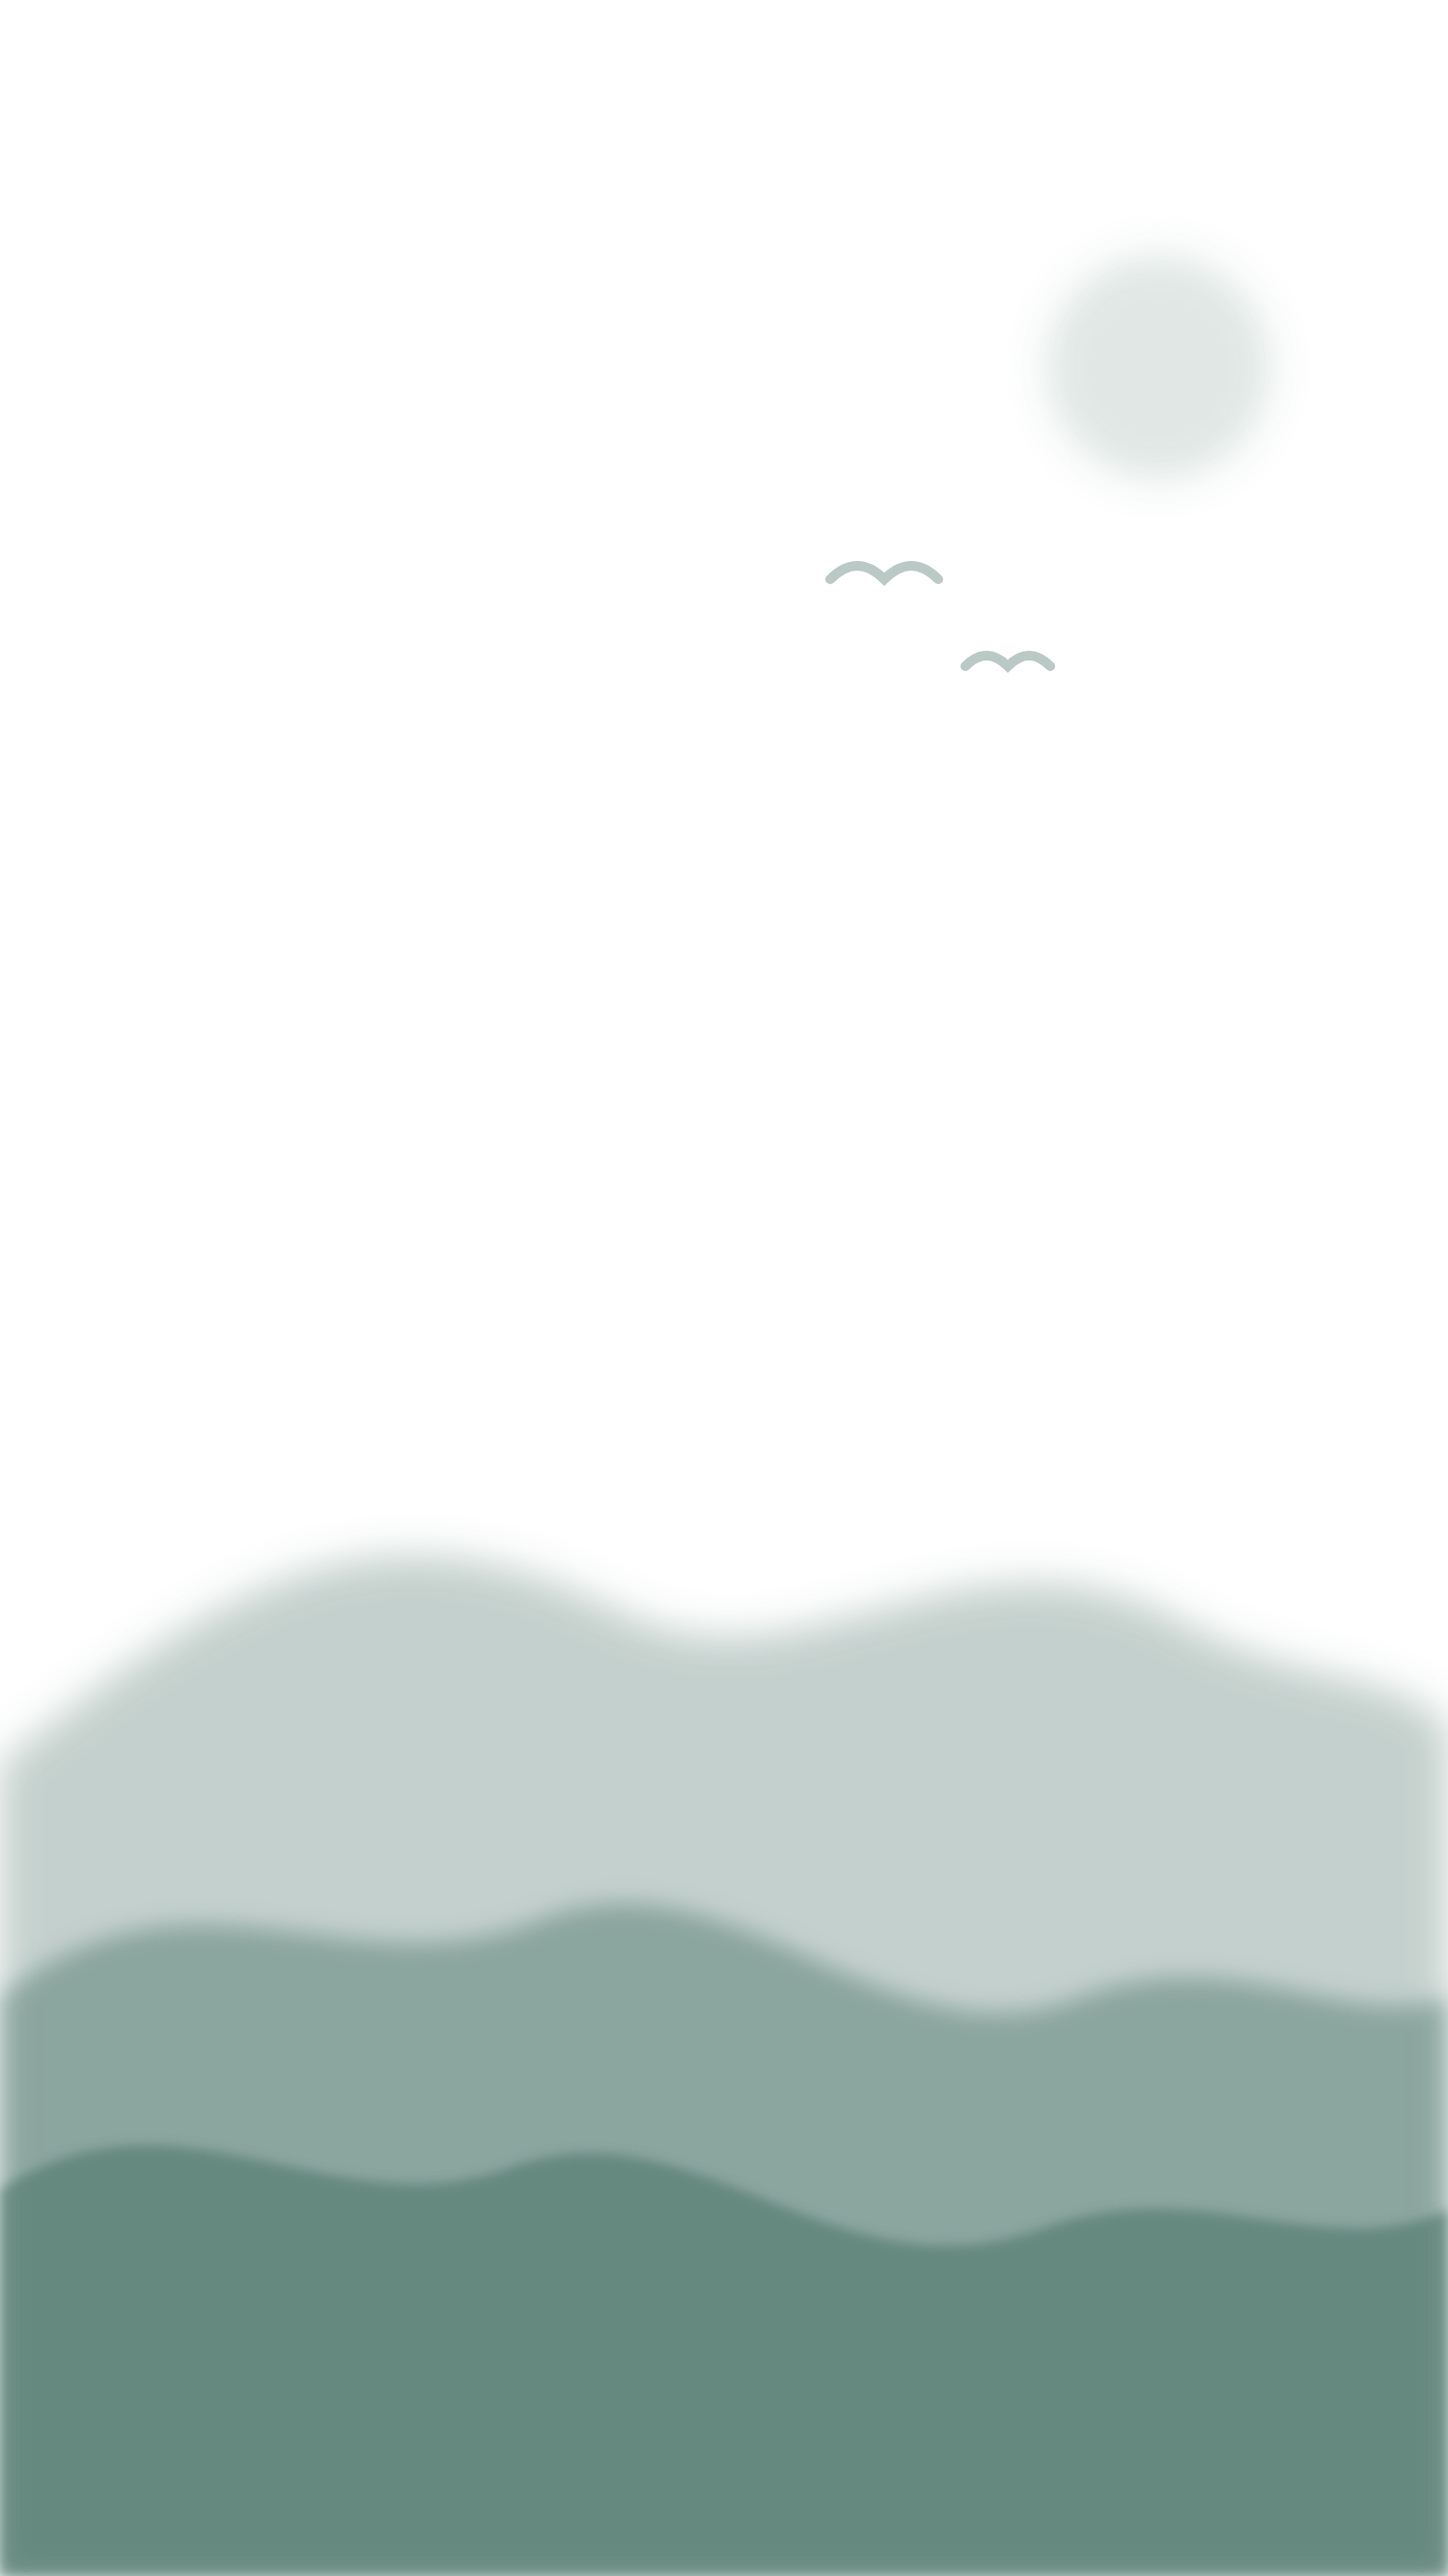
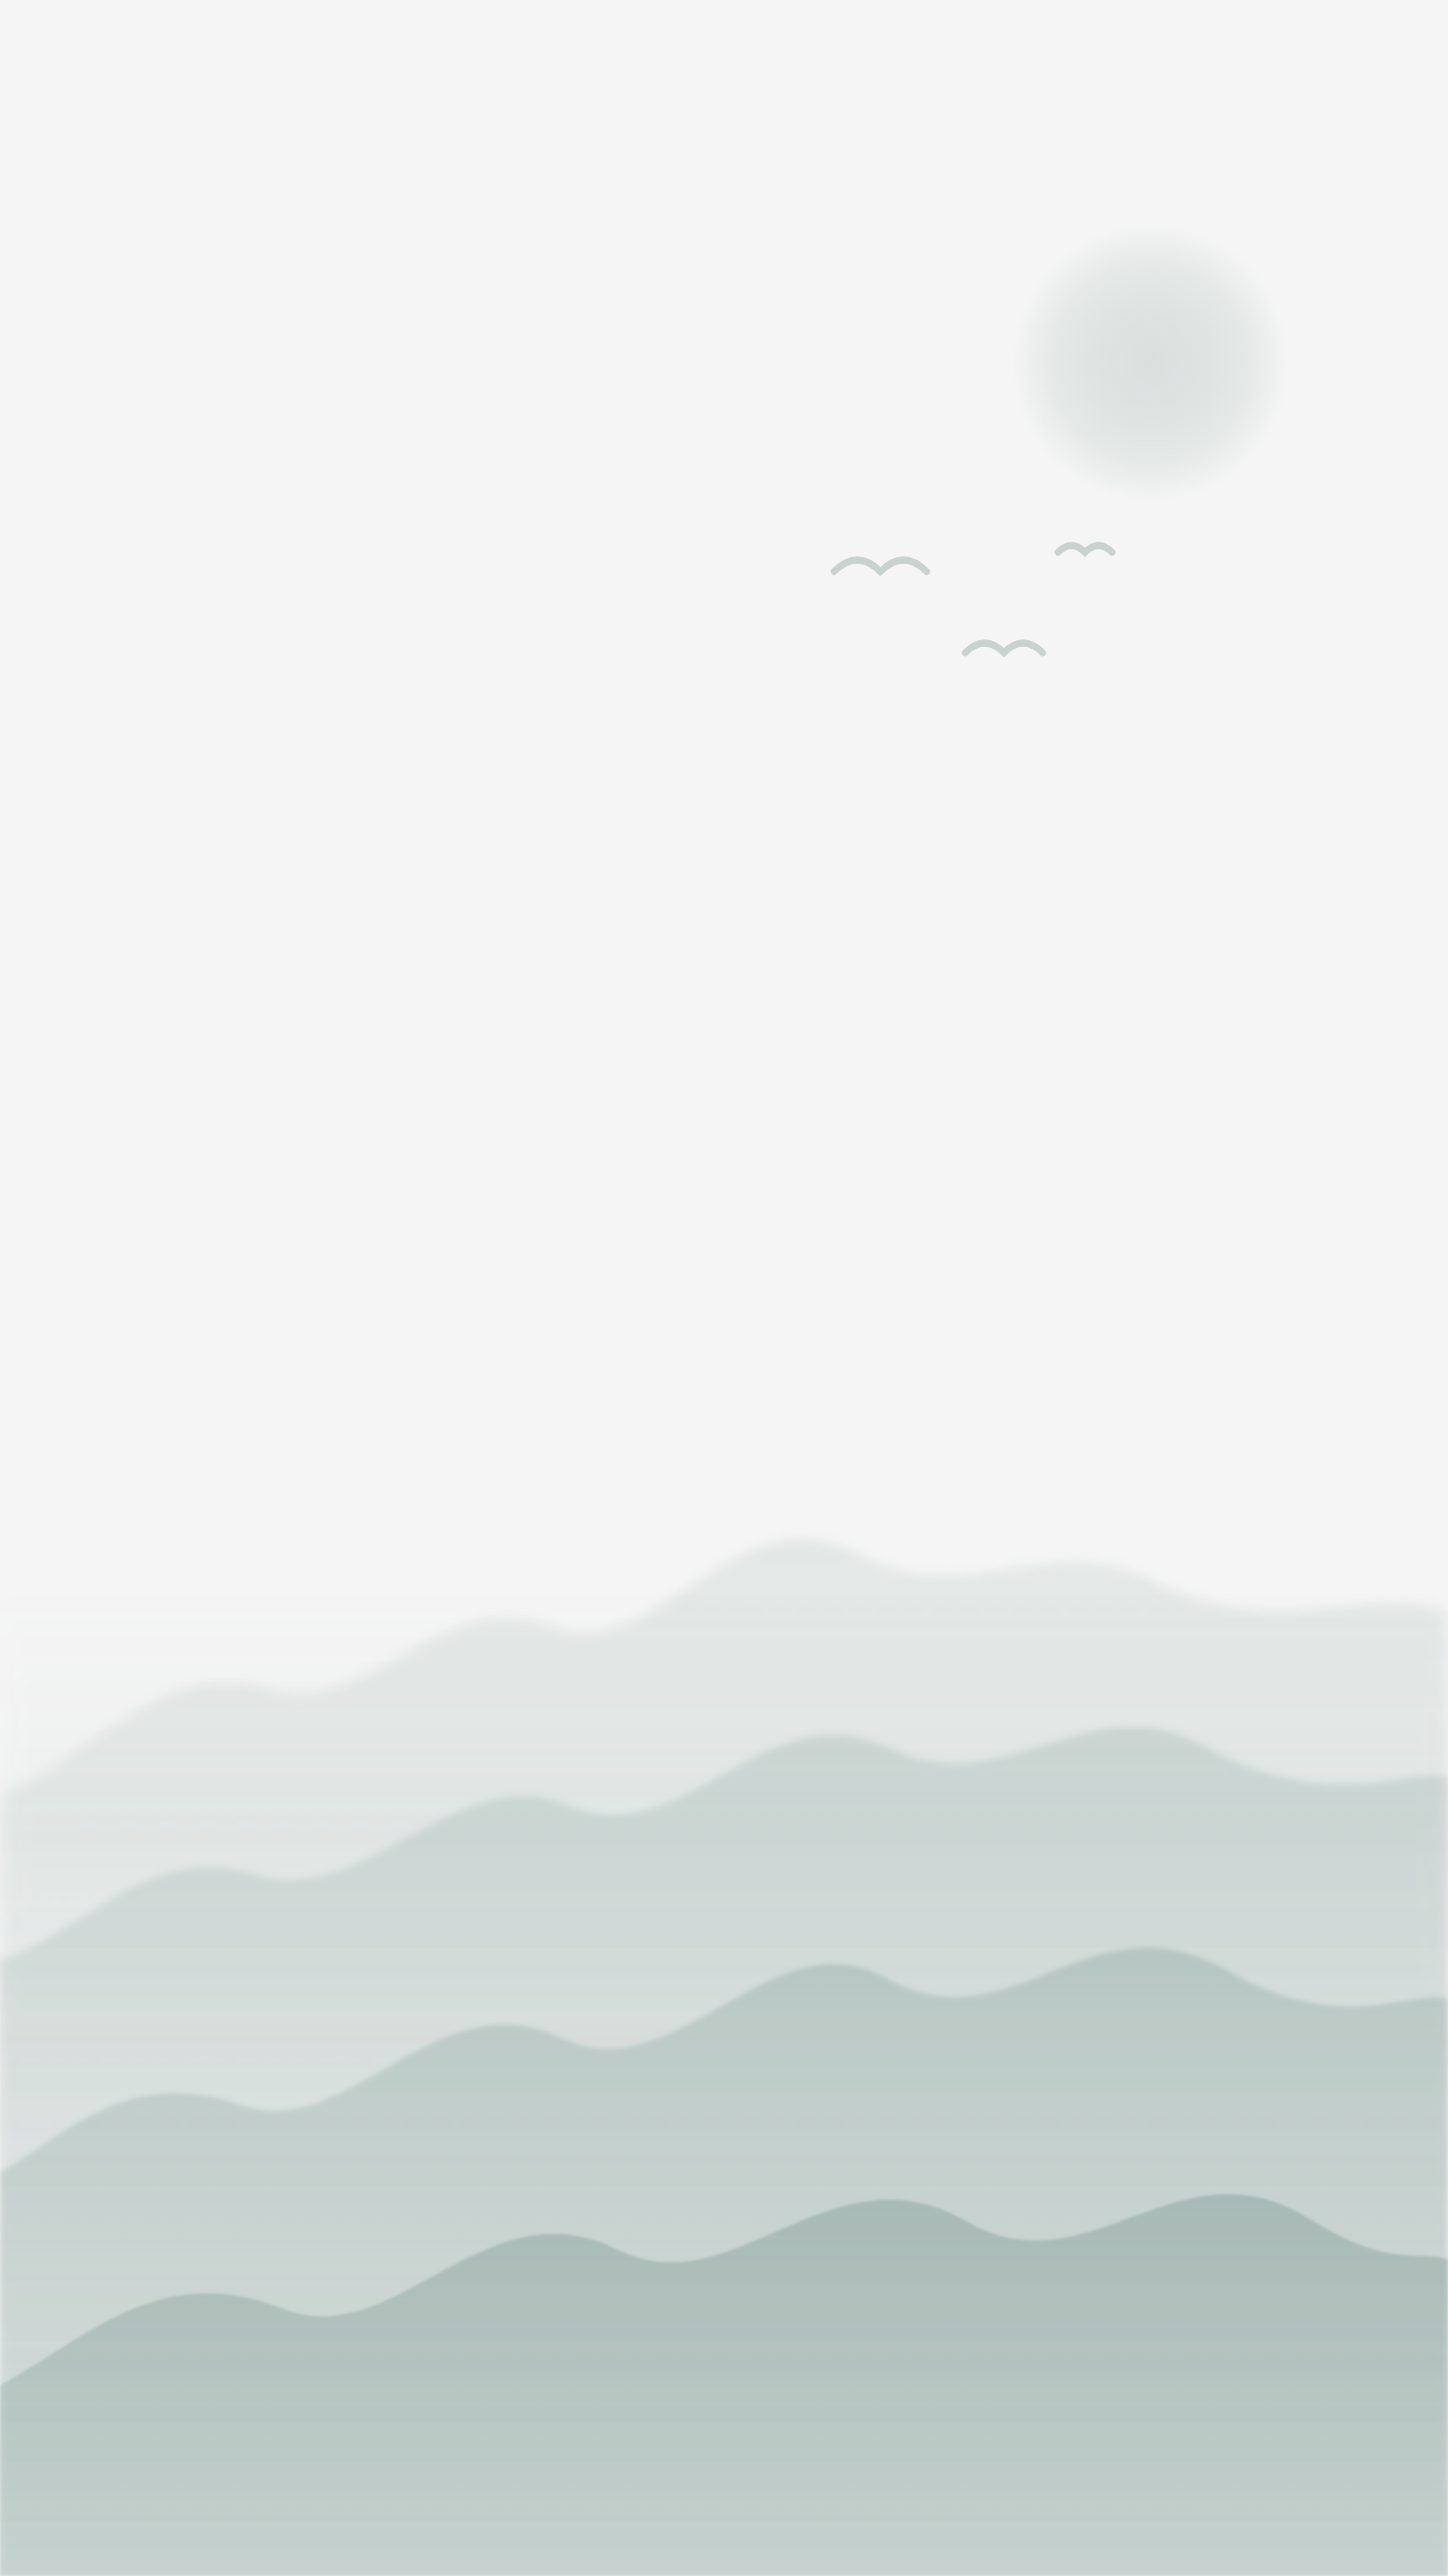
fix(mobile): 美化文本记忆水墨背景并修复导入列表与滚动条
- 水墨背景改为四层渐变山影与轻雾，2 倍分辨率、主题同底色不透明 PNG，避免高分屏彩边
- 诗词/成语卡片标题与标签允许换行，补齐 width/box-sizing/overflow-x，消除右侧空白竖条
- 导入列表和地图底部 sheet 隐藏纵向滚动条，保持固定 vh 高度链
- AGENTS 同步背景资源约定

diff --git a/mobile/src/subPackages/pages-memory/text-memory/import.vue b/mobile/src/subPackages/pages-memory/text-memory/import.vue
@@ -67,7 +67,7 @@
         </text>
       </view>
 
-      <scroll-view scroll-y class="lib-scroll">
+      <scroll-view scroll-y class="lib-scroll" :show-scrollbar="false">
         <view
           v-for="poem in filteredPoetry"
           :key="poem.id"
@@ -130,7 +130,7 @@
         </text>
       </view>
 
-      <scroll-view scroll-y class="lib-scroll">
+      <scroll-view scroll-y class="lib-scroll" :show-scrollbar="false">
         <view
           v-for="idiom in filteredIdioms"
           :key="idiom.id"
@@ -700,9 +700,13 @@ function handleImportFromMap() {
 
 .tab-content {
   flex: 1;
+  min-height: 0;
+  min-width: 0;
   padding: 24rpx;
   display: flex;
   flex-direction: column;
+  box-sizing: border-box;
+  overflow-x: hidden;
 }
 
 /* 地图 tab 需要去掉 padding 给 map 全宽全高 */
@@ -856,6 +860,16 @@ function handleImportFromMap() {
   flex: 1;
   margin-bottom: 20rpx;
   height: 0; /* flex 子项 scroll-view 需要明确高度约束 */
+  width: 100%;
+  max-width: 100%;
+  box-sizing: border-box;
+  overflow-x: hidden;
+}
+/* H5 隐藏纵向滚动条；小程序由 show-scrollbar=false 控制 */
+.lib-scroll::-webkit-scrollbar {
+  display: none;
+  width: 0;
+  height: 0;
 }
 
 .lib-item {
@@ -864,6 +878,10 @@ function handleImportFromMap() {
   padding: 20rpx;
   margin-bottom: 12rpx;
   border: 2rpx solid transparent;
+  width: 100%;
+  max-width: 100%;
+  box-sizing: border-box;
+  overflow: hidden;
 }
 .lib-item.selected {
   border-color: var(--sr-primary);
@@ -872,17 +890,24 @@ function handleImportFromMap() {
 .lib-item-header {
   display: flex;
   justify-content: space-between;
-  align-items: center;
+  align-items: baseline;
+  flex-wrap: wrap;
+  gap: 4rpx 12rpx;
   margin-bottom: 8rpx;
 }
 .lib-item-title {
   font-size: 28rpx;
   font-weight: 600;
   color: var(--sr-text-strong);
+  min-width: 0;
+  overflow-wrap: anywhere;
 }
 .lib-item-author {
   font-size: 22rpx;
   color: var(--sr-text-2);
+  margin-left: auto;
+  max-width: 100%;
+  overflow-wrap: anywhere;
 }
 .lib-item-content {
   font-size: 24rpx;
@@ -902,7 +927,9 @@ function handleImportFromMap() {
 .lib-item-tags {
   margin-top: 8rpx;
   display: flex;
+  flex-wrap: wrap;
   gap: 6rpx;
+  max-width: 100%;
 }
 .lib-mini-tag {
   font-size: 20rpx;
@@ -910,6 +937,9 @@ function handleImportFromMap() {
   color: var(--sr-text-2);
   border-radius: 4rpx;
   padding: 0 8rpx;
+  flex-shrink: 0;
+  max-width: 100%;
+  overflow-wrap: anywhere;
 }
 
 .action-btn {

diff --git a/mobile/src/subPackages/pages-memory/text-memory/components/MapBottomSheet.vue b/mobile/src/subPackages/pages-memory/text-memory/components/MapBottomSheet.vue
@@ -25,7 +25,7 @@
     </view>
 
     <!-- 列表 -->
-    <scroll-view scroll-y class="sheet-list">
+    <scroll-view scroll-y class="sheet-list" :show-scrollbar="false">
       <!-- 诗词 -->
       <view
         v-for="poem in payload.poems"
@@ -145,6 +145,8 @@ function previewContent(content: string): string {
   display: flex;
   flex-direction: column;
   height: 100%;
+  width: 100%;
+  box-sizing: border-box;
   overflow: hidden;
 }
 
@@ -252,7 +254,16 @@ function previewContent(content: string): string {
 .sheet-list {
   flex: 1;
   height: 0; /* flex 子项 scroll-view 需要明确高度约束，否则长列表撑开容器无法滚动 */
+  width: 100%;
+  max-width: 100%;
+  box-sizing: border-box;
+  overflow-x: hidden;
   padding: 12rpx 0 24rpx;
+}
+.sheet-list::-webkit-scrollbar {
+  display: none;
+  width: 0;
+  height: 0;
 }
 
 .sheet-item {
@@ -262,6 +273,9 @@ function previewContent(content: string): string {
   border-bottom: 1rpx solid var(--sr-border);
   background: var(--sr-card);
   transition: background 0.15s;
+  width: 100%;
+  max-width: 100%;
+  box-sizing: border-box;
 }
 .sheet-item.selected {
   background: var(--sr-primary-bg);

diff --git a/mobile/src/subPackages/pages-memory/text-memory/components/InkBackground.vue b/mobile/src/subPackages/pages-memory/text-memory/components/InkBackground.vue
@@ -1,5 +1,5 @@
 <template>
-  <!-- 固定淡墨背景：透明底 PNG 透出页面底色，pointer-events 关闭不影响交互 -->
+  <!-- 固定淡墨背景：与主题底色一致的不透明 PNG，避免透明通道彩边；pointer-events 关闭不影响交互 -->
   <image class="ink-bg" :src="src" mode="aspectFill" />
 </template>
 
